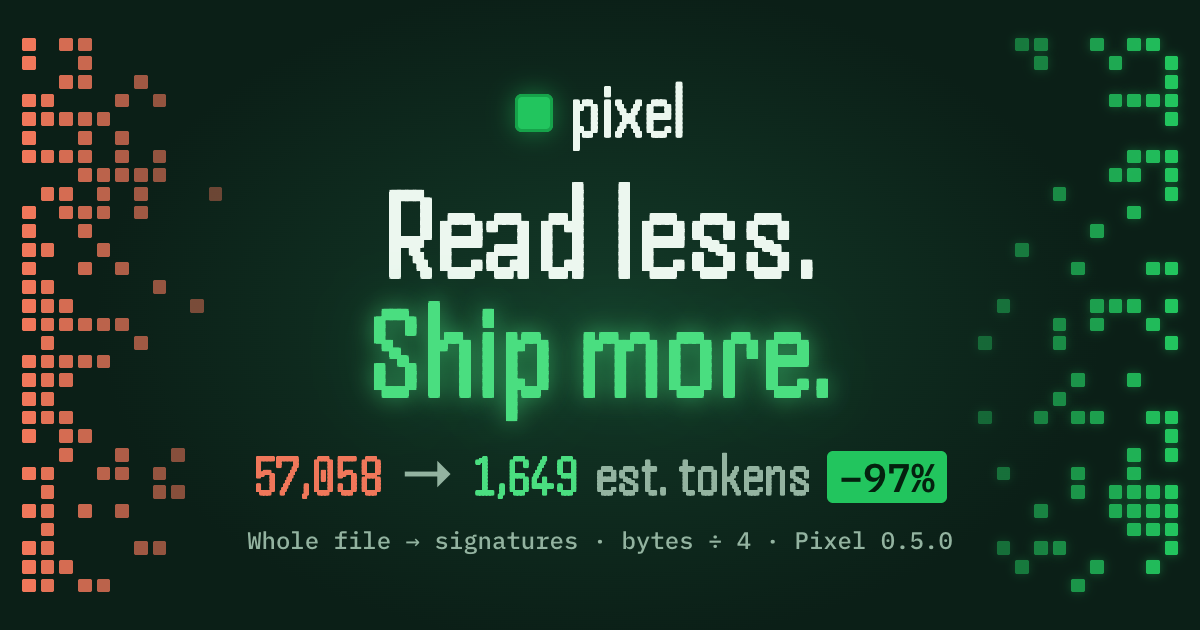
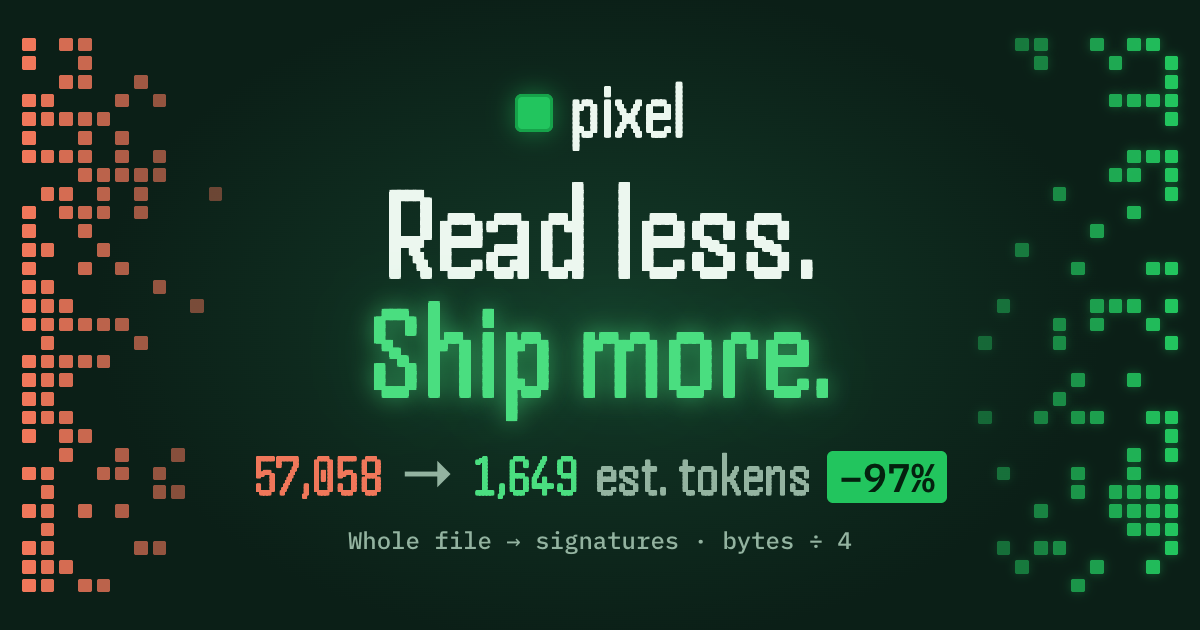
fix(docs): simplify public proof for Task 398

Changed region(s): [[0.185, 0.8444, 0.8017, 0.8746]]

diff --git a/website/layouts/index.html b/website/layouts/index.html
@@ -34,7 +34,7 @@
       </p>
       {{/* The title names the pain and the mechanism, and the lede carries one figure only: the kept files' median saving (partials/kept-rates.html), the number the wall beside it illustrates and the Tokens meter rounds. Agent timings are discussed separately in Proof; the headline is a file/outline volume comparison. */}}
       <h1 class="hero__title hero__title--long"><span>Your agent reads whole files.</span> <span class="glow">Pixel hands it the map.</span></h1>
-      <p class="hero__lede"><strong>Every session starts cold, so your coding agent opens file after file to find its way.</strong> Pixel is a local code index it asks instead: {{ lang.FormatNumber 1 $r.median }}% less read volume at the median across {{ $r.count }} pinned large files (whole file versus signatures, Pixel 0.5.0), and nothing leaves your machine.</p>
+      <p class="hero__lede"><strong>Every session starts cold, so your coding agent opens file after file to find its way.</strong> Pixel is a local code index it asks instead: {{ lang.FormatNumber 1 $r.median }}% less read volume at the median across {{ $r.count }} pinned large files (whole file versus signatures), and nothing leaves your machine.</p>
       <div class="hero__cta">
         <div class="cmd">
           <code><span class="cmd__prompt" aria-hidden="true">$</span> brew install LivioGama/tap/pixel</code>
@@ -55,7 +55,7 @@
           <p class="wall__state" aria-hidden="true"><span data-wall-state>Without Pixel</span></p>
           <p class="wall__label" data-wall-label aria-hidden="true">Your agent reading {{ $big.owner }} {{ path.Base $big.path }}, all {{ lang.FormatNumberCustom 0 $big.lines }} lines</p>
           <p class="wall__count" aria-hidden="true"><span data-wall-count>{{ lang.FormatNumberCustom 0 $big.full }}</span> estimated tokens <span class="wall__delta">&minus;{{ math.Floor $big.saved }}%</span></p>
-          <p class="sr-only" aria-live="polite" data-wall-announce>Your agent reading {{ $big.owner }} {{ path.Base $big.path }}, all {{ lang.FormatNumberCustom 0 $big.lines }} lines: {{ lang.FormatNumberCustom 0 $big.full }} estimated tokens. Signatures through Pixel: {{ lang.FormatNumberCustom 0 $big.pixel }} estimated tokens. UTF-8 bytes divided by four, Pixel 0.5.0.</p>
+          <p class="sr-only" aria-live="polite" data-wall-announce>Your agent reading {{ $big.owner }} {{ path.Base $big.path }}, all {{ lang.FormatNumberCustom 0 $big.lines }} lines: {{ lang.FormatNumberCustom 0 $big.full }} estimated tokens. Signatures through Pixel: {{ lang.FormatNumberCustom 0 $big.pixel }} estimated tokens. UTF-8 bytes divided by four.</p>
         </div>
         <div class="wall__grid" aria-hidden="true"></div>
         <figcaption class="wall__caption">
@@ -158,9 +158,9 @@
       <p class="chapter" aria-hidden="true"><span class="chapter__n"></span><span class="chapter__name">Proof</span></p>
       <header class="section__head" data-reveal>
         <h2 id="tasks-title">Less to read. <span class="glow">Task outcomes vary.</span></h2>
-        <p>Our main evidence compares a whole file with its signatures on eight pinned large files, using Pixel 0.5.0. The volume is measured in bytes; token counts are estimates from bytes divided by four. An outline helps locate code; edits still need the relevant bodies.</p>
+        <p>Our main evidence compares a whole file with its signatures on eight pinned large files. The volume is measured in bytes; token counts are estimates from bytes divided by four. An outline helps locate code; edits still need the relevant bodies.</p>
       </header>
-      <p class="ledger__fine" data-reveal>A newer Opus medium trial with the install hooks reported median times of 42.9&nbsp;s without Pixel and 47.6&nbsp;s with it on one scoping task: no speed gain there. Its raw runs are not archived here. The older Sonnet demo used an appended prompt without hooks and included runs that read its own traces. <a class="link" href="{{ $bench }}#on-whole-agent-tasks">Both protocols, results and limits</a></p>
+      <p class="ledger__fine" data-reveal>On one scoping task, an Opus medium trial with install hooks reported median times of 42.9&nbsp;s without Pixel and 47.6&nbsp;s with it: no speed gain on that task. <a class="link" href="{{ $bench }}#on-whole-agent-tasks">Method and limits</a></p>
       {{/* Real users' words, from data/voices.toml: nothing renders until it holds an entry, and the file says what an entry needs. */}}
       {{ with hugo.Data.voices.voice }}
       <ul class="voices" data-reveal="stagger" aria-label="What people who run Pixel say">
@@ -181,7 +181,7 @@
       <p class="chapter" aria-hidden="true"><span class="chapter__n"></span><span class="chapter__name">Verify</span></p>
       <header class="section__head" data-reveal>
         <h2 id="yours-title">Don't trust our numbers. <span class="glow">Get yours.</span></h2>
-        <p>Run inside a repository of yours, the first command prints what a the estimated token volume of its largest files versus their signatures. No session, no account, and nothing leaves your machine.</p>
+        <p>Run inside a repository of yours, the first command prints the estimated token volume of its largest files versus their signatures. No session, no account, and nothing leaves your machine.</p>
       </header>
       <ol class="yours" data-reveal="stagger">
         <li class="yours__step">
@@ -191,7 +191,7 @@
             <code><span class="cmd__prompt" aria-hidden="true">$</span> pixel audit</code>
             <button class="cmd__copy" type="button" data-copy="pixel audit">Copy</button>
           </div>
-          <p>On Requests with Pixel 0.5.1, estimated as bytes ÷ 4: <strong class="yours__waste">95,693 tokens</strong> for the twenty files whole against <strong class="yours__kept">11,447</strong> for their outlines: &minus;88%.</p>
+          <p>On Requests, estimated as bytes ÷ 4: <strong class="yours__waste">95,693 tokens</strong> for the twenty files whole against <strong class="yours__kept">11,447</strong> for their outlines: &minus;88%.</p>
         </li>
         <li class="yours__step">
           <span class="yours__n" aria-hidden="true">2</span>

diff --git a/website/layouts/_default/savings.html b/website/layouts/_default/savings.html
@@ -59,7 +59,7 @@
           <div class="est__bar est__bar--px" style="--w: {{ sub 100 $r.median }}%"><i></i><span>Through Pixel: <b data-out="tok-px">{{ partial "savings-format.html" (dict "kind" "tok" "v" (sub $full $mid)) }}</b></span></div>
         </div>
         <p class="est__rate">At the {{ $r.count }} well-known files' rate: <strong>{{ lang.FormatNumber 1 $r.median }}%</strong> median, {{ $r.min }} to {{ $r.max }}% (<a class="link" href="{{ $bench }}#well-known-files">the files</a>).</p>
-        <p class="est__scope">This scenario applies the archived Pixel 0.5.0 file/outline byte-volume ratios, converted to estimated tokens, to your inputs. It assumes every counted full read is replaced by signatures. Subsequent body reads, prompts, edits, tests and answers are outside the calculation. Dollars value that hypothetical input reduction at your chosen uncached price; they are not measured billed savings. Min and max are the observed files' range, not a confidence interval. <a class="link" href="{{ $bench }}#on-whole-agent-tasks">Agent trials and their limits</a></p>
+        <p class="est__scope">This scenario applies the measured file/outline byte-volume ratios, converted to estimated tokens, to your inputs. It assumes every counted full read is replaced by signatures. Subsequent body reads, prompts, edits, tests and answers are outside the calculation. Dollars value that hypothetical input reduction at your chosen uncached price; they are not measured billed savings. Min and max are the observed files' range, not a confidence interval. <a class="link" href="{{ $bench }}#on-whole-agent-tasks">Agent trials and their limits</a></p>
 
         <details class="est__math">
           <summary>Show the math</summary>

diff --git a/website/layouts/partials/head.html b/website/layouts/partials/head.html
@@ -18,7 +18,7 @@
 {{/* The share card, 1200x630 (the 1.91:1 X, LinkedIn and Slack draw): og/render.sh renders it from data/read_savings.toml. Its alt states the card's figures. Fingerprinted, because every unfurler caches the image by its URL: a new card gets a new one. */}}
 {{ $og := resources.Get "og.png" | fingerprint }}
 {{ $big := partial "wall-row.html" . }}
-{{ $alt := printf "Pixel. Read less, ship more: %s estimated tokens for %s %s whole, %s for signatures, %v%% less volume (UTF-8 bytes / 4; Pixel 0.5.0)." (lang.FormatNumberCustom 0 $big.full) $big.owner (path.Base $big.path) (lang.FormatNumberCustom 0 $big.pixel) (math.Floor $big.saved) }}
+{{ $alt := printf "Pixel. Read less, ship more: %s estimated tokens for %s %s whole, %s for signatures, %v%% less volume (UTF-8 bytes / 4)." (lang.FormatNumberCustom 0 $big.full) $big.owner (path.Base $big.path) (lang.FormatNumberCustom 0 $big.pixel) (math.Floor $big.saved) }}
 <meta property="og:image" content="{{ $og.Permalink }}">
 <meta property="og:image:type" content="image/png">
 <meta property="og:image:width" content="{{ $og.Width }}">

diff --git a/website/og/card.html b/website/og/card.html
@@ -59,7 +59,7 @@
     <p class="brand"><i></i><b>pixel</b></p>
     <h1>Read less.<br><span class="glow">Ship more.</span></h1>
     <p class="count"><s data-full></s><span>&rarr;</span><em data-pixel></em><span>est. tokens</span><small data-saved></small></p>
-    <p class="method">Whole file → signatures · bytes ÷ 4 · Pixel 0.5.0</p>
+    <p class="method">Whole file → signatures · bytes ÷ 4</p>
   </div>
 <script>
   /*DATA*/

diff --git a/docs/bench/marketing-evidence.md b/docs/bench/marketing-evidence.md
@@ -4,19 +4,22 @@ Checked 2026-09-30 against main `0f36481` and the HTML served by
 https://pixel-cli.dev/ (downloaded with `curl -L --fail`). The public home
 showed −30% duration, −38% context and −30% API cost, also reused by its CTO
 card, savings page, Claude Code page, answers and machine-readable metadata.
-This change prepares the sources only; it does not deploy them.
+This change prepares the sources only; it does not deploy them. Following
+the requested pre-launch cleanup, public pages present the selected evidence
+directly; measurement versions stay in protocols rather than on the home.
+Older source recordings remain research material, not public marketing proof.
 
 | Claim → source | Protocol / version / limits | Treatment and consumers |
 | --- | --- | --- |
-| −30% duration, −38% “context”, −30% cost → `docs/motion/src/demo/{runs.json,meta.txt}`, `scripts/trace.ts` | 2026-09-23, Sonnet 5, Claude Code 2.1.281, Pixel 0.5.0 (`aaa1a3b`), repo `e585b69`, one scoping task, 11 paired runs per arm. Medians: 86.516/60.726 s, 17,268/10,655 estimated tool-result tokens, $0.3942892/$0.2735356 Claude-reported cost. Prompt appended, no hooks; trace labels confirm demo-file reads by `vanilla-9`, `pixel-7` and `pixel-4`. Tokens are rounded bytes ÷ 4 per tool result, not full context; cost is not an independently checked invoice. | Remove gains and replay from home; retain historical table, JSON, metadata and rendered assets with caveats. Correct `/answers/`, `/for/claude-code/`, FAQ JSON-LD and `llms.txt`; remove calculator calibration. |
+| −30% duration, −38% “context”, −30% cost → `docs/motion/src/demo/{runs.json,meta.txt}`, `scripts/trace.ts` | 2026-09-23, Sonnet 5, Claude Code 2.1.281, Pixel 0.5.0 (`aaa1a3b`), repo `e585b69`, one scoping task, 22 runs total, 11 per arm. Medians: 86.516/60.726 s, 17,268/10,655 estimated tool-result tokens, $0.3942892/$0.2735356 Claude-reported cost. Prompt appended, no hooks; trace labels confirm demo-file reads by `vanilla-9`, `pixel-7` and `pixel-4`. Tokens are rounded bytes ÷ 4 per tool result, not full context; cost is not an independently checked invoice. | Use only the selected file/outline proof and Opus task result on public pages; source data documents the provenance in this audit. Correct `/answers/`, `/for/claude-code/`, FAQ JSON-LD and `llms.txt`; remove calculator calibration. |
 | 42.9/47.6 s → `docs/motion/README.md` | Newer Opus medium summary with install hooks, same scoping task, no gain. Raw runs outside repo; exact versions, date, sample size and token/cost results unavailable. Model and wiring both differ from Sonnet trial. | Visible on home, benchmarks, Claude Code and token answer. No general speed claim or invented provenance. No favourable-task replacement. |
-| −31%/−29% scoping, +1.5 s lookup, slower recovery → `docs/bench/measured-performance.md`, session log and raw text files | 2026-08-30, starting commit `865facf`, subsequent binary/doctrine fixes; 3 reps/cell. Clean/isolated tables use means. Full-stack arm loads global rules; isolated arm has no hooks and almost no Pixel calls. First table's baseline purity unknown. | Keep as dated historical evidence and disclose protocols; no headline extrapolation to current install. |
+| −31%/−29% scoping, +1.5 s lookup, slower recovery → `docs/bench/measured-performance.md`, session log and raw text files | 2026-08-30, starting commit `865facf`, subsequent binary/doctrine fixes; 3 reps/cell. Clean/isolated tables use means. Full-stack arm loads global rules; isolated arm has no hooks and almost no Pixel calls. First table's baseline purity unknown. | Leave in its research note; omit from public marketing pages. |
 | 79.7–97.2%, median 94.5%; Transformers 57,058/1,649 (97.1%) → `read-savings.md`, `website/data/read_savings.toml`, `scripts/bench-read-savings.sh` | Pixel 0.5.0, September 2026, 8 retained pinned large files. UTF-8 file/output bytes ÷ 4, floored; no agent or tokenizer. Python signature counts are coarse checks, not completeness proofs. React 99.4% excluded for Flow parse failure (20/125 functions). Bodies and later reads omitted. | Main proof remains home/README, token wall, benchmarks, comparisons, answers and share card. Label volume and token estimation, archived version and selected-file limits; keep rows unchanged. |
 | 94.5–96.1% on Pixel files → `website/data/savings.toml`, README at `632b3685` | Historical shunt-shaped file/answer comparison, byte-based token estimates. Exact binary version absent from cited publication. | Retain historical benchmark table, distinct from well-known-file sample and agent trials. |
 | Requests 95,693/11,447 (−88%), `models.py` 10,365/641 (−94%) → website benchmarks | Archived Pixel 0.5.1, Requests `611c616`, `pixel audit` / `list-signatures`, estimated tokens = floored bytes ÷ 4. No agent or billed cost. | Keep own-code verification examples with explicit units/version. |
-| 41–83%, 798 operations → same historical README | Maintainer action-log snippet/candidate-pool ratio, not actual agent baseline; no whole-session accounting. | Retain with historical label on benchmarks; remove from token answer as current-session proof. |
+| 41–83%, 798 operations → same historical README | Maintainer action-log snippet/candidate-pool ratio, not actual agent baseline; no whole-session accounting. | Retain with historical label on benchmarks; own-session checks describe local accounting without extrapolating this rate. |
 | Monthly tokens/dollars and README badge → `/savings/`, `kept-rates.html` | User inputs × archived kept-file ratios; dollars use chosen uncached input price (default $3 is a placeholder). Assumes each full read replaced by outline; excludes subsequent bodies and other session costs. Range is observed min/max, not a confidence interval. | Keep conditional estimate, remove agent/cost gain calibration; update SSR, JavaScript badge and `llms.txt` wording. Arithmetic and input keys unchanged. |
-| README scope and six job animations → `docs/motion/src/PixelComparison.tsx`, `website/data/jobs.toml` | Scripted workflow diagrams, not measured A/B trials. “Measured” accounting concerns local output volume; token/time savings also use estimators. | Keep assets with explicit captions in README, home and motion notes. Archived AgentDemo retains original pixels/data as history, not current proof. |
+| README scope and six job animations → `docs/motion/src/PixelComparison.tsx`, `website/data/jobs.toml` | Scripted workflow diagrams, not measured A/B trials. “Measured” accounting concerns local output volume; token/time savings also use estimators. | Keep assets with explicit captions in README, home and motion notes. AgentDemo is not used as public proof. |
 | Meta description, FAQ/answer JSON-LD, OG/Twitter card → `hugo.toml`, `head.html`, data answers/objections, `og/card.html` | Descriptions and structured answers render from corrected data; image uses archived Transformers row, not a session; `_index.md` overrides the default home description. | Replace unqualified token/cost labels with volume/estimated tokens; regenerate card. |
 
 Other home figures (GitNexus recall 0.86/0.84, 153/432 ms and ~4,160/~19,700

diff --git a/website/content/benchmarks.md b/website/content/benchmarks.md
@@ -5,7 +5,7 @@ description: "Every number on the home page, with its method, its sample size an
 
 <!-- Figures come from docs/bench/; every section links its source. crates/pixel/tests/cli/docs_drift.rs reads this page, so every `pixel <command>` quoted here must exist. -->
 
-Figures below link to their available evidence and protocols. The newer Opus trial is a documented summary without archived raw runs; losses sit next to wins.
+Figures below link to their available evidence and protocols. The Opus trial is a documented summary without archived raw runs; losses sit next to wins.
 
 <!-- Each command in this box was run on a fresh clone of a third-party repository (psf/requests) before it was written here: `pixel audit` and `pixel list-signatures` at requests 611c616 with pixel 0.5.1, the others with pixel 0.5.0. Re-run them when an output or a prerequisite changes. -->
 <aside class="measure" aria-labelledby="measure-it-on-your-own-code">
@@ -99,37 +99,15 @@ Recall is a tie at this sample size: Pixel finds every caller in Rust and TypeSc
 
 ## On whole agent tasks
 
-These are historical or limited trials, not estimates for the current installation. Read volume, estimated tokens, elapsed duration and provider-reported cost are different quantities.
+An Opus medium trial with install hooks on one scoping task reported these medians:
 
-### Newer trial with install hooks: no gain on this task
-
-[The motion protocol note](https://github.com/LivioGama/pixel/blob/main/docs/motion/README.md#the-agent-demo) reports an Opus medium re-recording with the hooks: **42.9 s without Pixel, 47.6 s with it**, medians on the same scoping task. It found no speed gain on that task. The raw runs are held outside the repository; their date, exact model and Pixel versions, sample size and cost are not archived here. This summary cannot establish a general slowdown or speedup, nor a token or cost result. Changing both model and wiring prevents attributing the difference to hooks alone.
-
-### Archived Sonnet demo, prompt only
-
-Recorded 2026-09-23 (repository `e585b69`, binary commit `aaa1a3b`): Claude Sonnet 5, Pixel 0.5.0, one scoping task ("retry a leased push when the remote branch moved: list the files to change"), 11 runs per side, each pair started together, the same bare setup on both sides except Pixel's appended agent prompt, **without the install hooks**. The motion note documents that three of the 22 runs read the demo's own files. This contamination and the obsolete wiring rule out using the gains as current-install marketing evidence.
-
-| Median over 11 runs | Without Pixel | With Pixel |
+| Duration | Without Pixel | With Pixel |
 | --- | --- | --- |
-| Wall time | 86.5 s | **60.7 s** (−30%) |
-| Tool-result volume, estimated tokens | 17,268 | **10,655** (−38%) |
-| Claude-reported API cost | $0.394 | **$0.274** (−30%) |
+| Wall time | 42.9 s | 47.6 s |
 
-`trace.ts` sums each tool result's UTF-8 bytes divided by four (rounded per result); it does not count model context or all input tokens. Cost is Claude Code's `total_cost_usd`, not a verified invoice. `runs.json` reproduces these medians; `meta.txt` records versions, task and prompt hash. The rendered replay is retained as an [historical asset](https://github.com/LivioGama/pixel/blob/main/docs/examples/pixel-agent-demo.mp4), with this context, rather than embedded on the home page.
+No speed gain on this task. This does not establish a general slowdown or speedup, or a token or cost result. The raw runs are held outside the repository; their date, exact model and Pixel versions, sample size and cost are not archived here. [Available protocol note](https://github.com/LivioGama/pixel/blob/main/docs/motion/README.md#the-agent-demo)
 
-Both sides named `push.rs` among their first two files in every run, and the Pixel side called Pixel in every run, 6 to 17 times. The spread is wide on both sides: 57 to 148 s without Pixel, 33 to 207 s with it. [Every run, its trace and the recording scripts](https://github.com/LivioGama/pixel/tree/main/docs/motion)
-
-### August A/B runs, earlier binary and doctrine
-
-The 2026-08-30 runs start at commit `865facf` and include subsequent fixes documented in the session log:
-
-- **About 30% faster** to scope a multi-file task. Two independent A/B designs agree: 31% and 29%.
-- **About 1.5 seconds slower** on a single lookup in the isolated run: the cost of reading Pixel's guidance before a one-shot answer, since the task never ran a Pixel command.
-- **Still slower** at recovering deleted code from history. Open work.
-
-Three runs per cell; the August tables use means for the clean-baseline and isolated runs (the first, impure-baseline table uses medians). They do not validate the current install or a general gain. The agents of that release also called Pixel less than its protocol asks: given the protocol alone, with no hooks, the agent barely ran a Pixel command and still scoped tasks 29% faster, so part of the gain is the protocol's guidance rather than its answers.
-
-[Agent A/B runs and their caveats](https://github.com/LivioGama/pixel/blob/main/docs/bench/measured-performance.md)
+Read volume, estimated tokens, elapsed duration and provider-reported cost are different quantities. Adoption rates with the current install hooks are not quantified here; inspect `pixel action-log` on your own sessions.
 
 ## Where a specialist wins
 

diff --git a/website/README.md b/website/README.md
@@ -78,13 +78,14 @@ touched (Hugo 0.166; a plain `hugo` build is right).
   visitor: `pixel audit`, `pixel list-signatures` and `pixel token-savings`,
   each beside the figure it printed (the first two restate "Measure it on
   your own code" in `content/benchmarks.md`). The band compares whole files with signatures, not agent sessions.
-  Proof reports the newer Opus-with-hooks summary (no gain on its task) and
-  links the archived prompt-only Sonnet demo with its contamination caveat. The optional
+  Proof reports the Opus-with-hooks summary (no gain on its task) and
+  links its method and limits. Measurement versions belong in the benchmark
+  protocols, not repeated on the home page. The optional
   `pixel classify` has a dedicated Decisions section on the home and its
   fuller accuracy-and-latency comparison on `/benchmarks/`; it remains an
   optional add-on, separate from the local index. The scope board
   draws one pad per indexed file and routes a trace from each P0 pad to its
-  file name. The job tabs load each video only when opened, while the historical agent replay is no longer embedded on the home page. Videos never autoplay under reduced motion: the poster shows the
+  file name. The job tabs load each video only when opened, with captions that identify them as workflow illustrations. Videos never autoplay under reduced motion: the poster shows the
   finished state and the controls are there.
 - Under the four "How it works" cards, the cold start figure: the time
   from nothing to a full index of a large repository, beside a track of
@@ -219,7 +220,7 @@ touched (Hugo 0.166; a plain `hugo` build is right).
   together). Nothing is sent or stored: the share link carries the values in
   its fragment (`#d=10&s=4&r=5&t=10000&p=3&w=21`, the inputs' `key`s, so
   never rename one), and the README badge is a static shields.io URL built
-  from the median. No historical agent gain calibrates the calculation. It assumes each counted
+  from the median. The calculation uses the kept-file volume ratios. It assumes each counted
   full read is replaced by signatures. Dollars value hypothetical input reduction
   at the chosen uncached price, not invoice savings; the observed range is not a
   confidence interval. The page links the agent trials' limitations instead. The page is labelled an estimate

diff --git a/website/content/answers/reduce-claude-code-tokens.md b/website/content/answers/reduce-claude-code-tokens.md
@@ -12,7 +12,7 @@ Before Claude Code edits anything, it finds out where to work: it searches, open
 
 ## What changes with an index
 
-With Pixel wired in, the agent asks instead of opening: `pixel scope-task` for the files a task touches, `pixel list-signatures` for what a file contains, `pixel who-calls` for the callers of a function. Each answer is fitted to a budget and says whether it is complete. An outline locates definitions; an edit still needs their bodies. The archived demo does not validate token or cost savings for the current hooks.
+With Pixel wired in, the agent asks instead of opening: `pixel scope-task` for the files a task touches, `pixel list-signatures` for what a file contains, `pixel who-calls` for the callers of a function. Each answer is fitted to a budget and says whether it is complete. An outline locates definitions; an edit still needs their bodies. File/signature volumes do not establish token or cost savings for a whole session.
 
 `pixel install` wires it into Claude Code (lifecycle hooks in `~/.claude/settings.json`), and `pixel install --repo` adds a guard in the repository that flags untargeted reads of large files. The [Claude Code page](../../for/claude-code/) lists every file it writes and how to remove it.
 

diff --git a/website/content/answers/will-my-agent-use-the-tool.md b/website/content/answers/will-my-agent-use-the-tool.md
@@ -14,7 +14,7 @@ An agent is trained on the tools every repository has: search, read, the shell. 
 
 Pixel does not wait for the agent to discover it. `pixel install` puts its protocol into every session of the agents it supports, and on Claude Code it does so through lifecycle hooks, so the guidance is there on the first turn of every session. `pixel install --repo` adds a guard to one repository that flags untargeted reads of large files; it advises and never blocks.
 
-The archived demo was called in every run with its prompt appended and no hooks; an earlier doctrine-only trial was barely called. These different historical protocols do not measure adoption with the current install hooks.
+Check actual use in your own sessions: the current installation has no quantified adoption rate here, and tool use alone does not establish a time or cost gain.
 
 ## Check it on your machine
 

diff --git a/website/content/for/claude-code.md b/website/content/for/claude-code.md
@@ -10,4 +10,4 @@ agent: "claude-code"
 
 ## Evidence and limits
 
-The newer Opus medium trial with install hooks reported 42.9 s without Pixel and 47.6 s with it on one scoping task, with raw runs outside the repository. The older Sonnet demo used an appended prompt without hooks and included trace-reading contamination. Neither establishes a gain for your sessions. [Protocols, historical results and limits](../../benchmarks/#on-whole-agent-tasks)
+An Opus medium trial with install hooks reported 42.9 s without Pixel and 47.6 s with it on one scoping task: no speed gain there. The raw runs are outside the repository, so this limited summary does not establish a result for your sessions. [Method and limits](../../benchmarks/#on-whole-agent-tasks)

diff --git a/docs/motion/README.md b/docs/motion/README.md
@@ -49,7 +49,7 @@ command, time and token count comes from a recording.
    independently checked invoice. The summary at the end shows the median of each metric over all runs, and
    its headline follows those medians rather than assuming a win.
 
-The archived demo (no longer embedded on the landing page) predates this protocol: Claude Sonnet 5, Pixel
+The source recording predates this protocol: Claude Sonnet 5, Pixel
 0.5.0 with its agent prompt appended instead of its hooks, in the source
 tree itself (`src/demo/meta.txt`). Three of its 22 runs read the demo's own
 files, which is why the script now works in a separate worktree. An Opus
